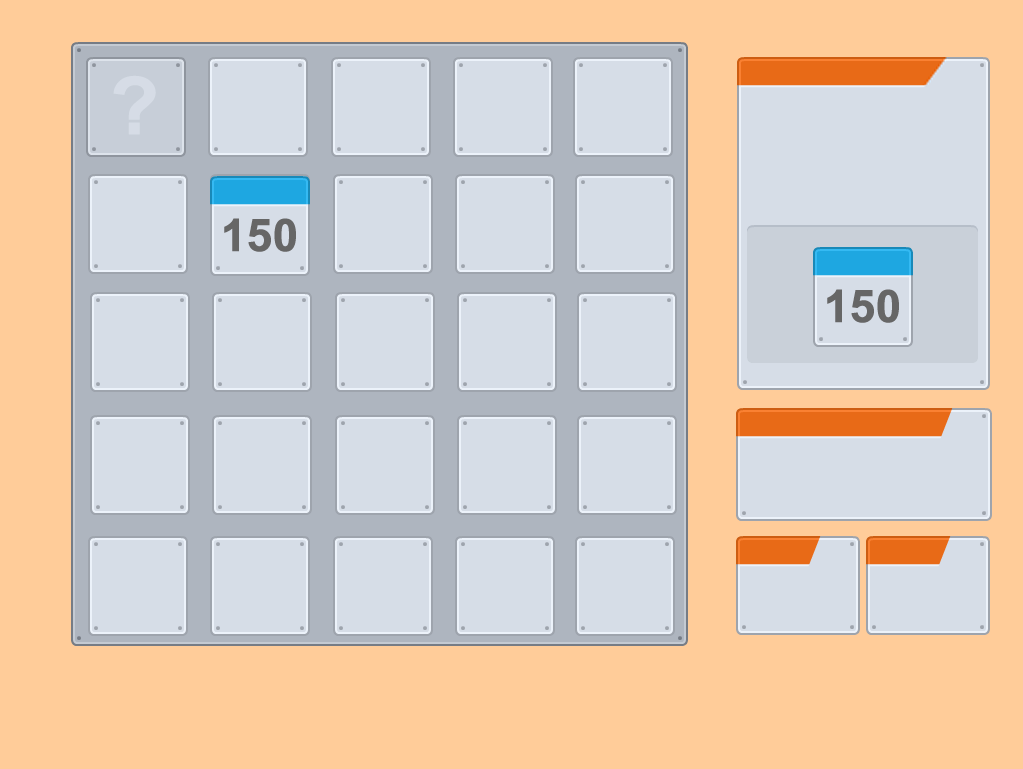
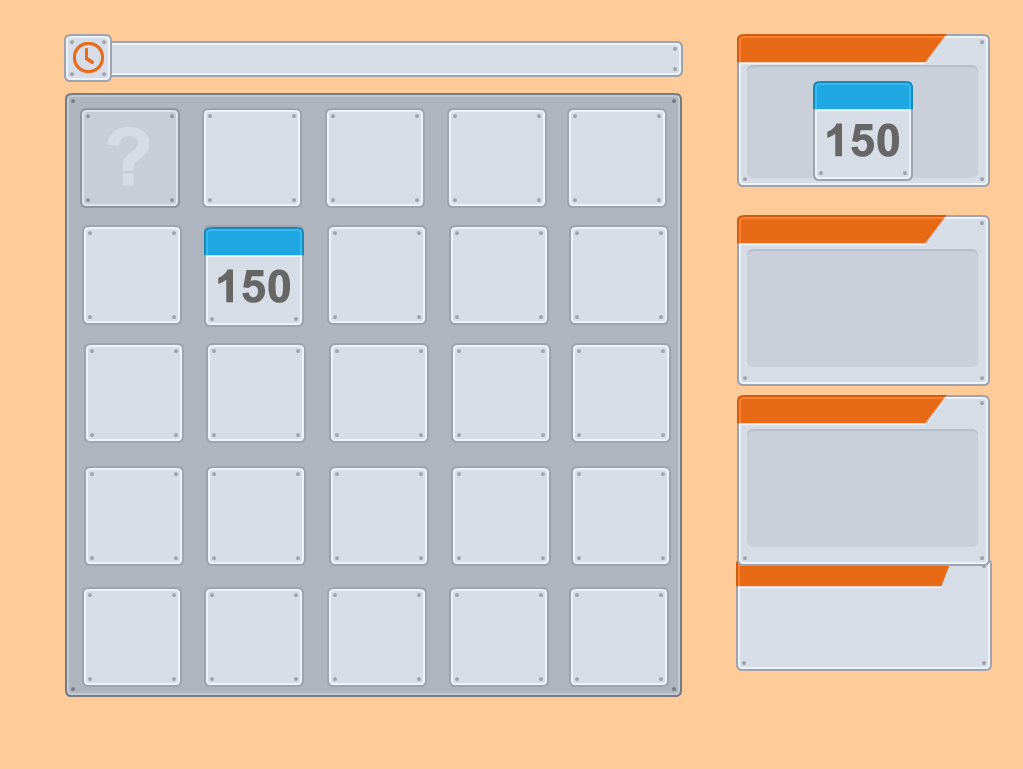
New assets! /o/

diff --git a/card-flipper/Hud.js b/card-flipper/Hud.js
@@ -13,8 +13,6 @@ var Hud = function () {
     var mDialogTime;
     var mLabelLookFor;
     var mLabelHealth;
-    var mLabelRight;
-    var mLabelWrong;
     var mSfxWrong;
     var mSfxRight;
 
@@ -34,7 +32,7 @@ Hud.prototype.init = function() {
     mRightWrongTimer    = 0;
 
     mDialogQuestion     = new Phaser.Sprite(Game, Game.world.width * 0.72, 50, 'question-dialog');
-    mDialogTime         = new Phaser.Sprite(Game, mDialogQuestion.x, Game.world.height * 0.7, 'time-dialog');
+    mDialogTime         = new Phaser.Sprite(Game, mDialogQuestion.x, Game.world.height * 0.8, 'time-dialog');
     mQuestionCard       = new Card(mDialogQuestion.x + 130, mDialogQuestion.y + 87);
 
     mHealthBar          = new ProgressBar(mDialogTime.x + 20, mDialogTime.y + 50, 210, 30, {line: 0x47B350, fill: 0x37DB45});
@@ -43,8 +41,6 @@ Hud.prototype.init = function() {
 
     mLabelLookFor       = new Phaser.Text(Game, mDialogQuestion.x + 10, mDialogQuestion.y + 5, 'Poisonous', {fontSize: 16, fill: '#fff', align: 'center'});
     mLabelHealth        = new Phaser.Text(Game, mDialogTime.x + 10, mDialogTime.y + 5, 'Health', {fontSize: 16, fill: '#fff', align: 'center'});
-    mLabelRight         = new Phaser.Text(Game, 300, 400, 'Monster', {fontSize: 16, fill: '#fff', align: 'center'});
-    mLabelWrong         = new Phaser.Text(Game, 300, 400, 'Trash', {fontSize: 16, fill: '#fff', align: 'center'});
 
     mRightWrongSignal.visible = false;
     mRightWrongSignal.anchor.set(0.5);
@@ -57,8 +53,6 @@ Hud.prototype.init = function() {
 
     this.add(mLabelLookFor);
     this.add(mLabelHealth);
-    this.add(mLabelRight);
-    this.add(mLabelWrong);
     this.add(mHealthBar);
     this.add(mTurnTimeBar);
 

diff --git a/card-flipper/PlayState.js b/card-flipper/PlayState.js
@@ -31,13 +31,17 @@ var PlayState = function() {
 			j = 0,
 			aCard;
 
-		mMonster = Game.add.sprite(Game.world.width * 0.85, Game.world.height * 0.4, 'question-dialog');
-		mTrash = Game.add.sprite(Game.world.width * 0.85, Game.world.height * 0.6, 'question-dialog');
+		mMonster = Game.add.sprite(Game.world.width * 0.85, Game.world.height * 0.42, 'monster');
+		mMonster.animations.add('idle', [0,1], 2, true);
+		mMonster.animations.add('sick', [2], 1);
+		mMonster.animations.play('idle');
+
+		mTrash = Game.add.sprite(Game.world.width * 0.85, Game.world.height * 0.67, 'trash');
 
 		mMonster.anchor.setTo(0.5);
 		mTrash.anchor.setTo(0.5);
 
-		mBackground = Game.add.sprite(Game.world.width * 0.05, Game.world.height * 0.12, 'deck-background');
+		mBackground = Game.add.sprite(Game.world.width * 0.05, Game.world.height * 0.15, 'deck-background');
 		mCards = Game.add.group();
 
 		for(i = 0; i < Constants.CARDS_MAX; i++) {

diff --git a/card-flipper/LoadState.js b/card-flipper/LoadState.js
@@ -29,6 +29,8 @@ var LoadState = function() {
 		Game.load.image('question-dialog', 'assets/question_dialog.png'); // UI pack, by Kenney Vleugels (www.kenney.nl), CC0, http://www.kenney.nl
 		Game.load.image('time-dialog', 'assets/time_dialog.png'); // UI pack, by Kenney Vleugels (www.kenney.nl), CC0, http://www.kenney.nl
 		Game.load.image('clock-bar', 'assets/clock_bar.png'); // UI pack, by Kenney Vleugels (www.kenney.nl), CC0, http://www.kenney.nl
+		Game.load.image('trash', 'assets/trash.png'); // UI pack, by Kenney Vleugels (www.kenney.nl), CC0, http://www.kenney.nl
+		Game.load.spritesheet('monster', 'assets/monster.png', 150, 201); // UI pack, by Kenney Vleugels (www.kenney.nl), CC0, http://www.kenney.nl
 
 		// SFX
 		Game.load.audio('sfx-right', 'assets/right.ogg'); // Fourier, CC-BY 3.0, https://soundcloud.com/third-octave

diff --git a/card-flipper/Constants.js b/card-flipper/Constants.js
@@ -18,7 +18,7 @@ var Constants = new function() {
 	this.CARDS_MAX_FLIPS_TURN	= 5;		// Max amount of cards that will will be flipped every time a new question is generated.
 	this.CARDS_MIN_FLIP_SHOW	= 2000;		// Min time, in milliseconds, a card show be shown to the player
 	this.CARDS_MAX_FLIP_SHOW	= 4000;		// Max time, in milliseconds, a card show be shown to the player
-	this.CARDS_COLORS			= 4;
+	this.CARDS_COLORS			= 7;
 	this.CARDS_DIST_TARGET		= 100;
 
 	this.QUESTION_DURATION		= 7000;		// Min time, in milliseconds, a question should remain active
